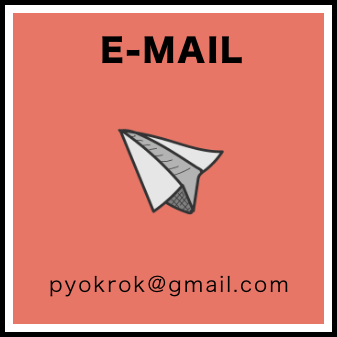
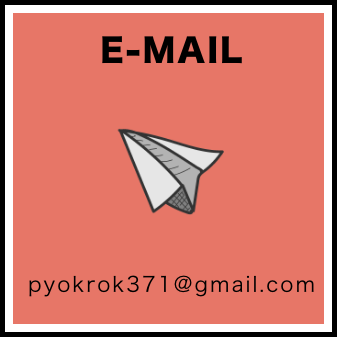
CONTACTの項目をaで囲い、メールアドレスの表示に誤りがあったので修正

Changed region(s): [[0.089, 0.8012, 0.9496, 0.8902]]

diff --git a/index.html b/index.html
@@ -118,8 +118,8 @@
                                         <h3 class="title_contact"></h3>
                                     </div></h2>
                             <div class="sns-container">
-                                <div class="twitter sns"></div>
-                                <div class="email sns"></div>
+                                <a href=""><div class="twitter sns"></div></a> 
+                                <a href=""><div class="email sns"></div></a>
                             </div>
         
                             <div class="copyright-container">

diff --git a/css/index.css b/css/index.css
@@ -942,7 +942,6 @@ section{
                 border: solid 2px  black ;
             }
 
-
             @media screen and (max-width:355px){
                 .news-post-date{
                     width:150px;         
